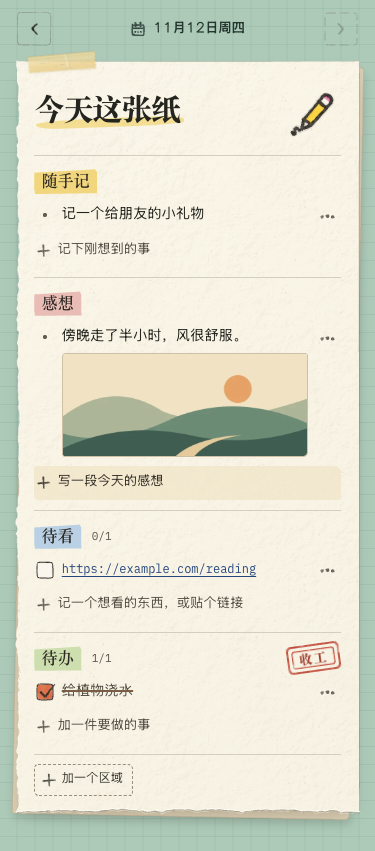
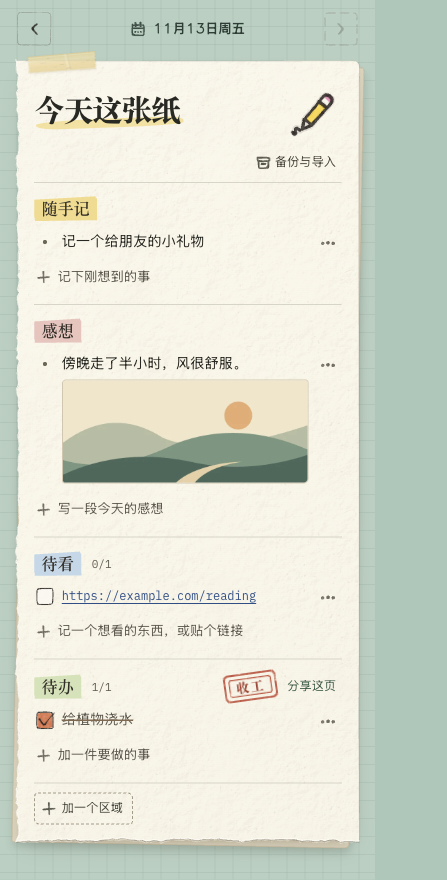
docs: 更新使用说明并准备 Chrome 商店资料

diff --git a/README.md b/README.md
@@ -13,6 +13,8 @@
 - **随手记、感想、待看、待办**。一张纸上可以同时写段落、存链接和列清单。还可以添加自己的文字区或勾选区，之后每天沿用。
 - **直接贴图**。复制一张图或截屏，在记录的输入框按 `⌘V` 或 `Ctrl+V`。预览出现后点「记下」。可以加说明，也可以只贴图。
 - **每天换页**。点日期或左右箭头查看过去的纸。需要接着做的事可以「抄到今天」，图片会一起带过来。
+- **备份与导入**。导出一个包含文字、图片和勾选状态的 JSON 文件。在另一份 Chrome 用户资料中导入，预览后即可合并。也支持早期通过控制台导出的 JSON。
+- **分享这页**。勾选想分享的分区，预览、复制或下载一张手绘长图。
 - **本地保存**。文字、链接和图片都保存在当前 Chrome 用户资料中，离线也能使用。扩展只在你粘贴时接收剪贴板里的图片。
 
 ## 安装
@@ -24,7 +26,7 @@
 3. 点击「加载已解压的扩展程序」，选择包含 `manifest.json` 的 `today-paper` 文件夹。
 4. 在 Chrome 工具栏的扩展菜单打开「今天这张纸」。固定图标后，点一下就能打开侧栏。
 
-升级时，把新包的文件覆盖到原先加载的文件夹，再到扩展管理页点「重新加载」。保留原来的扩展和路径即可继续使用原有记录。
+升级时，把新包的文件覆盖到原先加载的文件夹，再到扩展管理页点「重新加载」。保留原来的扩展和路径即可继续使用原有记录。换电脑或改用商店版时，可先导出，再在新安装的扩展中导入。
 
 ## 本地开发
 
@@ -41,10 +43,10 @@ npm run build
 npm run test:chrome
 ```
 
-浏览器测试使用独立的 Chrome 用户资料，覆盖贴图、历史翻页、复制、保存和并发写入。macOS 和 Linux 可以设 `HEADED=1` 额外检查工具栏能否打开原生侧栏。Chrome 安装在其他位置时，通过 `CHROME_PATH` 指定可执行文件。
+浏览器测试使用独立的 Chrome 用户资料，覆盖贴图、历史翻页、备份恢复、PNG 分享和并发写入。macOS 和 Linux 可以设 `HEADED=1` 额外检查工具栏能否打开原生侧栏。Chrome 安装在其他位置时，通过 `CHROME_PATH` 指定可执行文件。
 
 ## 存储与许可
 
-扩展使用 Chrome 本地存储。图片会转成 WebP，长边超过 2200 像素时等比缩小。移除扩展会清除它在当前 Chrome 用户资料中的数据。
+扩展使用 Chrome 本地存储。图片会转成 WebP，长边超过 2200 像素时等比缩小。移除扩展会清除它在当前 Chrome 用户资料中的数据。详见[隐私说明](docs/privacy.md)。
 
 纸张、插画、手绘组件和 Kevin Sans 来自 [Looseleaf](https://github.com/kevintngo/looseleaf)，采用 [MIT 许可](public/LICENSE.Looseleaf.txt)。IBM Plex Mono 采用 [SIL OFL 1.1](public/LICENSE.IBM-Plex-Mono.txt)。其他依赖的许可见 [第三方声明](public/THIRD-PARTY-NOTICES.txt)。

diff --git a/docs/chrome-web-store.md b/docs/chrome-web-store.md
@@ -1,0 +1,36 @@
+# Chrome 网上应用店提审资料
+
+## 提交顺序
+
+1. 用发布者的 Google 账号登录 [Chrome 开发者后台](https://chrome.google.com/webstore/devconsole)。首次注册时需缴纳一次性费用，金额以后台显示为准。
+2. 选择添加新项目，上传商店版 ZIP。商店包的 `manifest.json` 位于压缩包根目录。
+3. 填写商店资料，使用 ZIP 内的 `icons/128.png` 作为图标。上传 1280 × 800 的实际侧栏截图。
+4. 填写隐私声明及权限用途，选择公开分发并提交审核。后续向同一项目上传版本号更高的 ZIP。审核并发布后，Chrome 会自动更新商店安装的扩展。
+
+官方说明见 [注册开发者](https://developer.chrome.com/docs/webstore/register)、[发布扩展](https://developer.chrome.com/docs/webstore/publish)及[填写隐私字段](https://developer.chrome.com/docs/webstore/cws-dashboard-privacy)。
+
+## 商品介绍
+
+- **名称**　今天这张纸
+- **语言**　简体中文
+- **简介**　在 Chrome 侧栏随手记下想法、图片和待办。每天一页，完成时盖个「收工」章。
+
+**详细介绍**
+
+打开 Chrome 侧栏，就有一张今天的手绘便签。写几句感想、贴一张截图、存下待看的链接，或勾掉刚做完的事。页面按日期保存，也可以添加自己的记录区。
+
+点击日期翻阅历史。从「备份与导入」带走整本记录，包含图片与勾选状态。只想分享一天时，可以选中几个分区，预览后复制或下载带日期和手绘印章的 PNG。
+
+笔记、图片和备份操作均在本机处理。
+
+**隐私说明**
+
+[https://github.com/SparkChase/today-paper/blob/main/docs/privacy.md](https://github.com/SparkChase/today-paper/blob/main/docs/privacy.md)
+
+## 隐私和权限字段
+
+- 单一用途是在 Chrome 侧栏编写、保存和整理个人便签。导入、导出和分享服务于这些便签。
+- `sidePanel` 用来在 Chrome 侧栏显示便签。
+- `storage` 用来在当前 Chrome 用户资料保存记录、分区、图片与完成状态。
+- `unlimitedStorage` 让多日的本地图片记录可以超出普通扩展的存储配额。
+- 代码和字体均随扩展打包。扩展不执行远程代码，也不向开发者发送笔记或图片。

diff --git a/docs/privacy.md b/docs/privacy.md
@@ -1,0 +1,9 @@
+# 《今天这张纸》隐私说明
+
+《今天这张纸》在 Chrome 侧栏记录笔记。文字、链接、图片、日期、分区和勾选状态存放在当前 Chrome 用户资料中。扩展不要求创建账号，不把记录或剪贴板内容发送到开发者服务器，也不使用分析或广告服务。
+
+在输入框主动粘贴时，扩展接收这次粘贴提供的图片，并在本机生成预览。确认保存后，图片写入本地笔记。点击「复制图片」时，扩展将当前预览放入系统剪贴板。
+
+导出备份和下载分享图时，Chrome 会在设备上保存文件。导入仅处理用户主动选择的备份文件。若用户通过聊天或其他服务发送文件，该服务按其自身规则处理文件。
+
+用户可以删除单条记录，或通过移除扩展清除该安装的本地数据。已经下载的备份和图片由用户自行管理。遇到隐私问题可以在 [GitHub 仓库](https://github.com/SparkChase/today-paper/issues) 联系维护者，请勿在公开问题中附上私人笔记。
